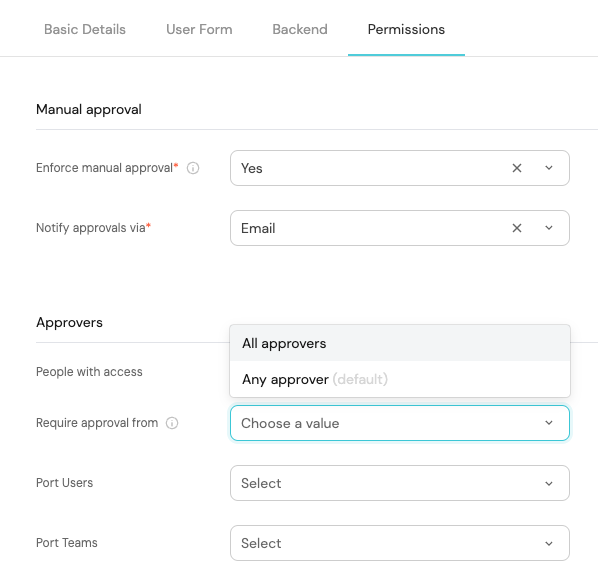
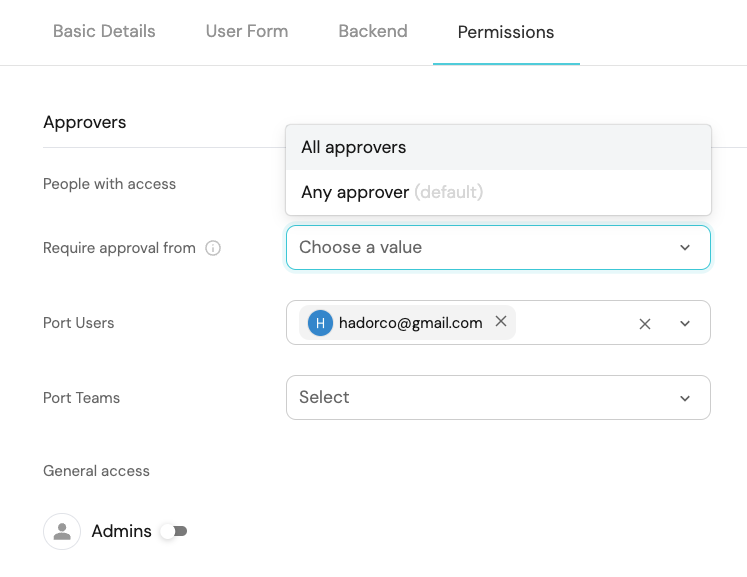
add multiple approvers

diff --git a/docs/actions-and-automations/create-self-service-experiences/set-self-service-actions-rbac/set-self-service-actions-rbac.md b/docs/actions-and-automations/create-self-service-experiences/set-self-service-actions-rbac/set-self-service-actions-rbac.md
@@ -176,3 +176,6 @@ After toggling on the `Enforce manual approval` option, you can add approvers by
 You can also choose whether **all** specified approvers must approve the action, or if only **one** (any) of them is enough.
 
 <img src='/img/self-service-actions/rbac/chooseApprovers.png' width='50%' border='1px' />
+<br/><br/>
+
+Alternatively, you can allow anyone with the `Admin` role to approve the action, by enabling the `Admins` toggle.
